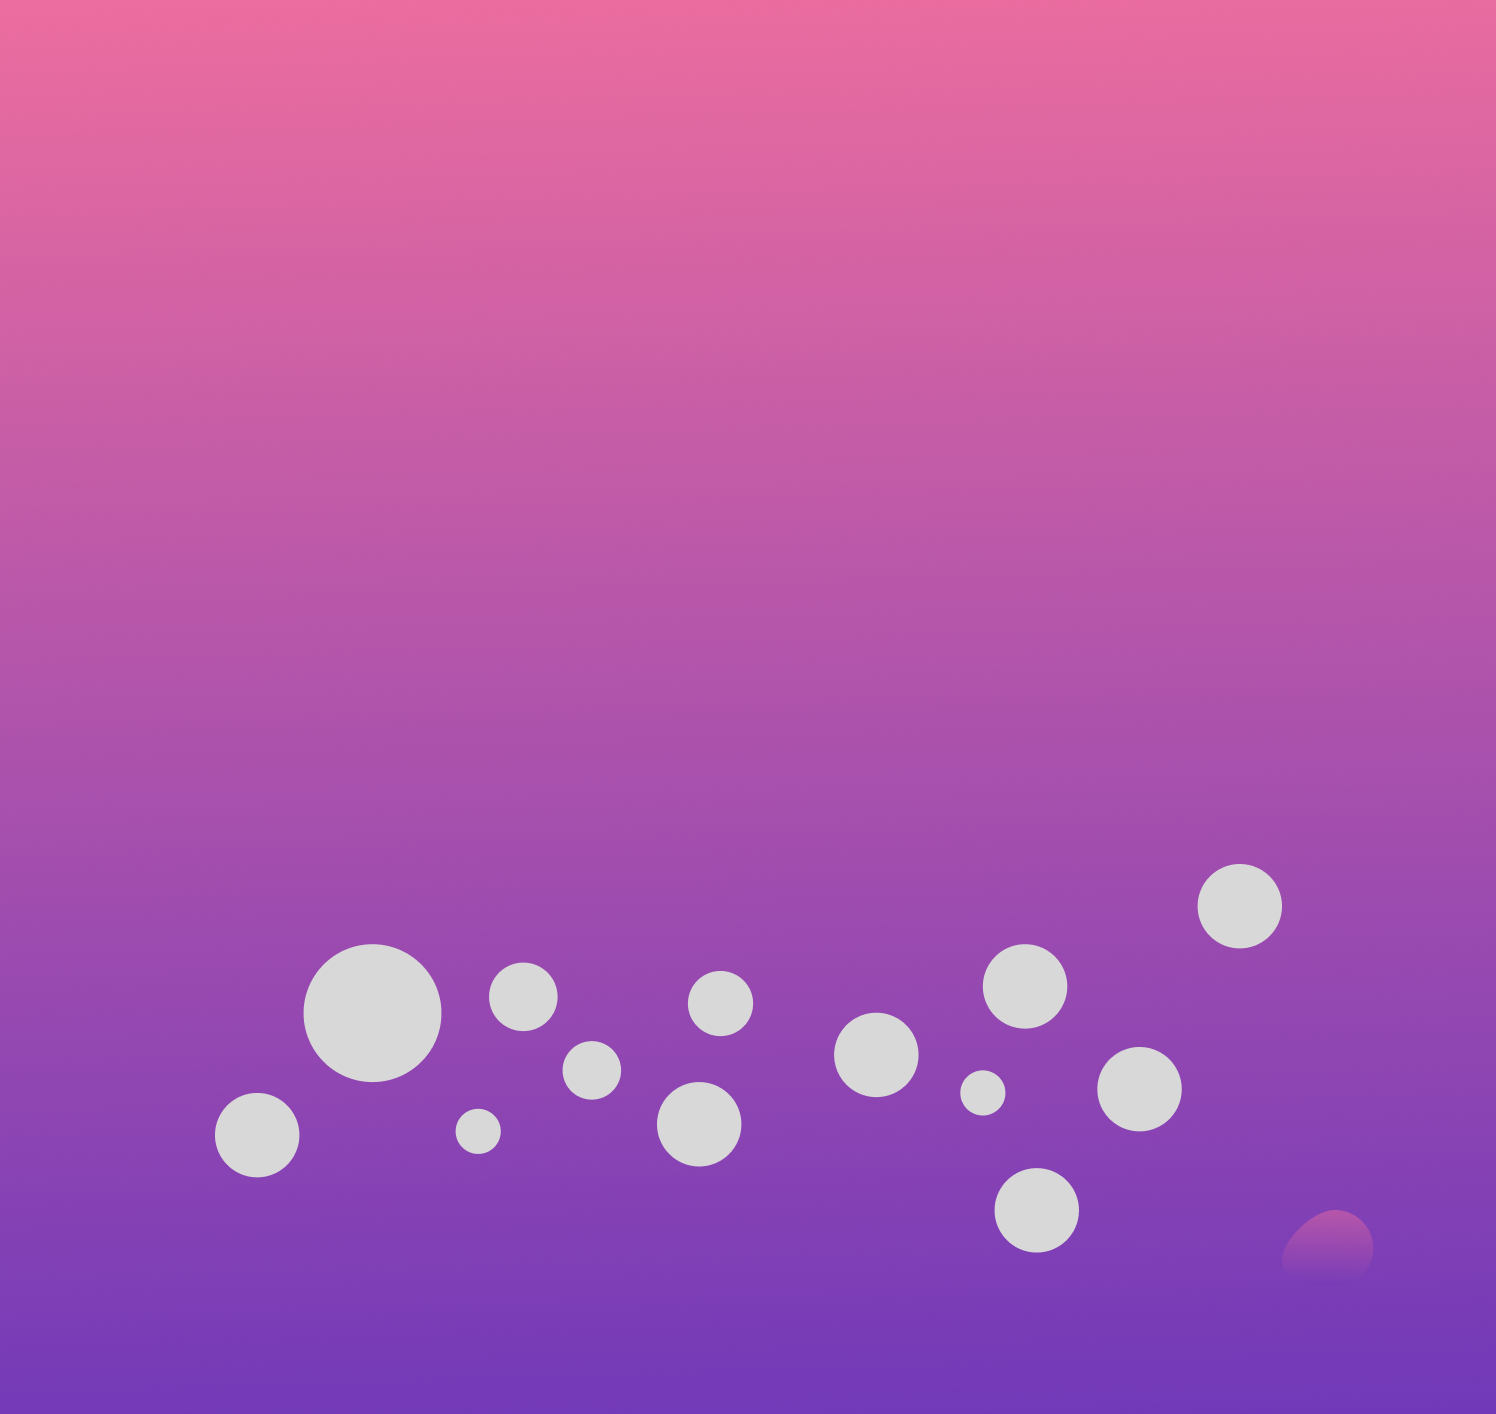
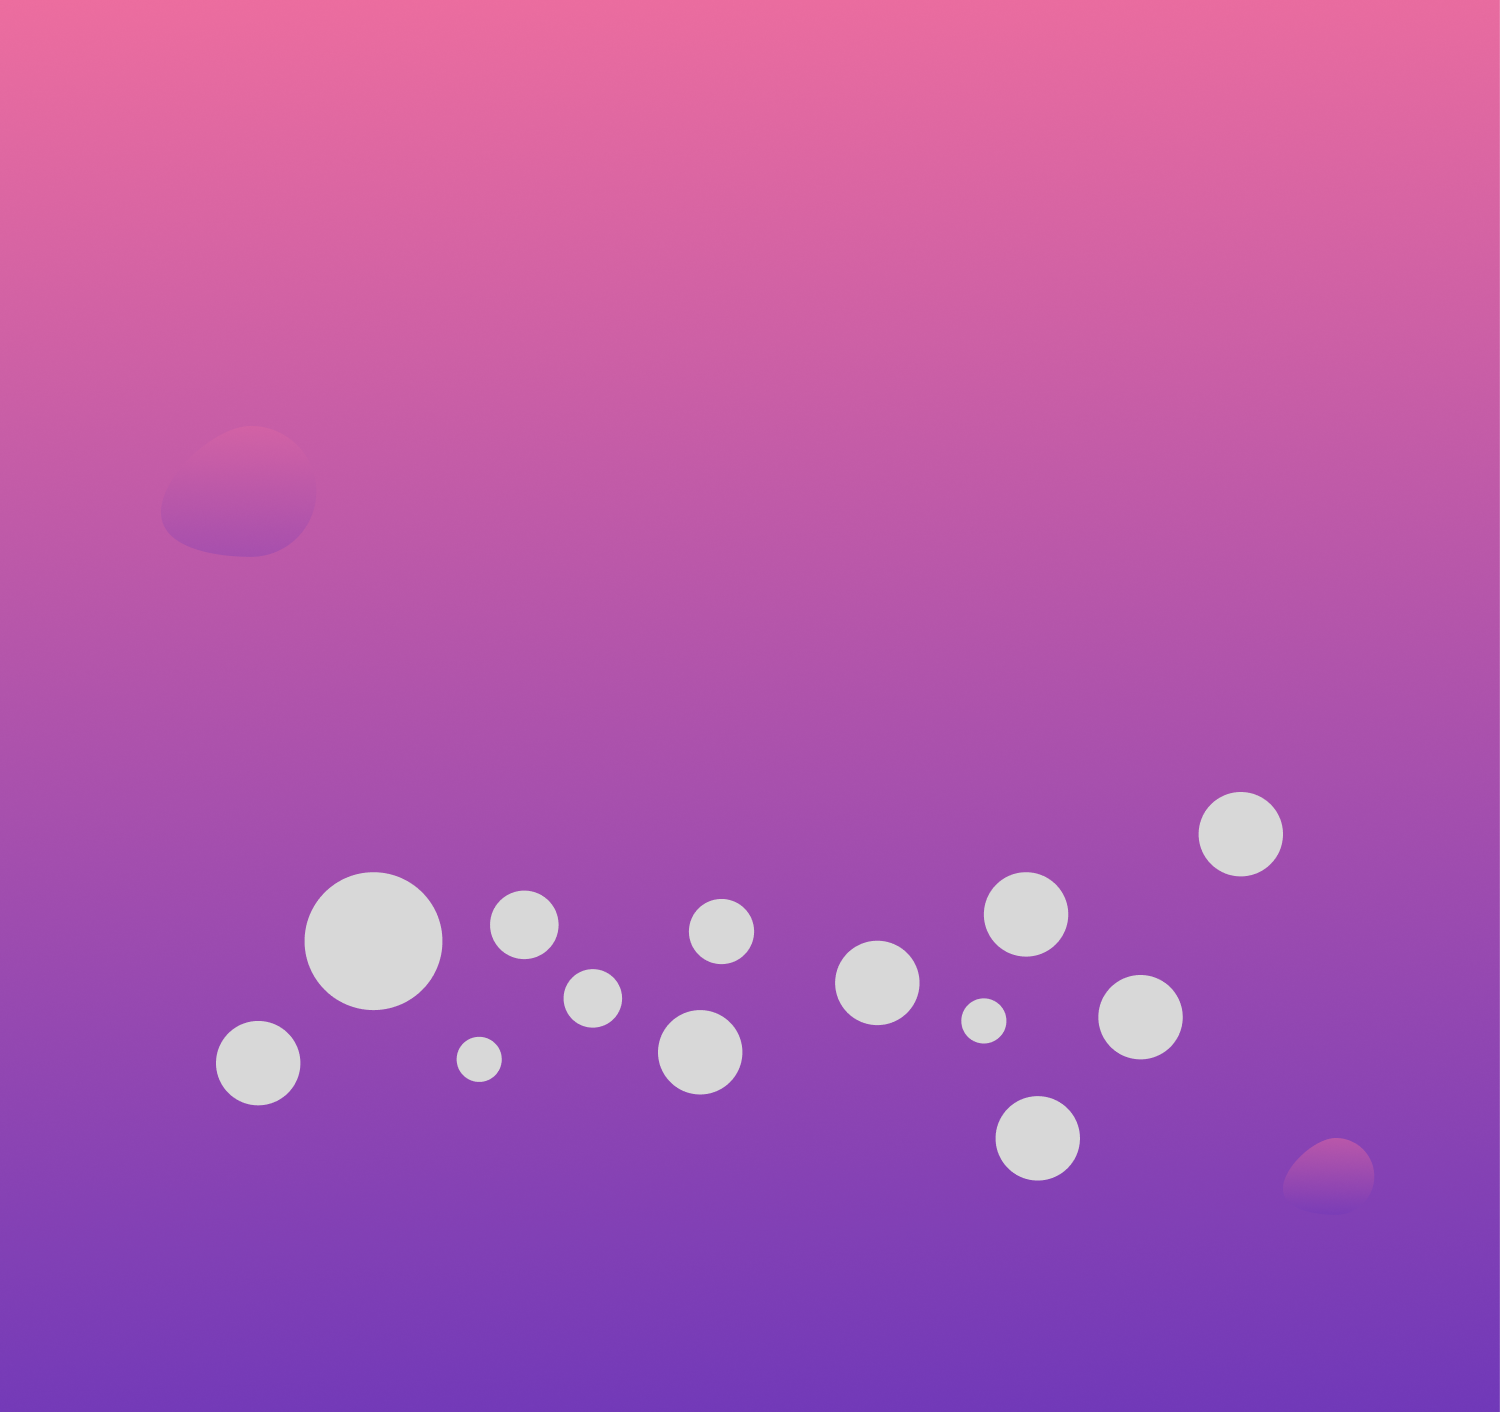
starting design new block CHAT

diff --git a/style.css b/style.css
@@ -147,16 +147,16 @@ body {
   box-shadow: 0px 0px 15px 19px rgba(253, 116, 155, 0.57);
 }
 .hero {
-  background: url('image/test-bg.png');
+  background: url("image/test-bg.png");
   background-size: cover;
   background-repeat: no-repeat;
   width: 100%;
   height: 100%;
 }
 .hero:after {
-  content: '';
+  content: "";
   display: block;
-  background: url('image/test-bg-after.png');
+  background: url("image/test-bg-after.png");
   background-repeat: no-repeat;
   background-size: 100%;
   height: 250px;
@@ -204,7 +204,6 @@ body {
 }
 .hero-pic {
   margin-top: 56px;
-
 }
 .hero-description {
   margin-right: 73px;
@@ -271,8 +270,8 @@ body {
   height: 100%;
 }
 .price:after {
-  content:'';
-  background: url('image/test-bg-after.png');
+  content: "";
+  background: url("image/test-bg-after.png");
   display: block;
   background-repeat: no-repeat;
   background-size: 100%;
@@ -280,8 +279,8 @@ body {
   margin-top: 50px;
 }
 .price:before {
-  content:'';
-  background: url('image/test-bg-after.png');
+  content: "";
+  background: url("image/test-bg-after.png");
   transform: rotate(180deg);
   display: block;
   background-repeat: no-repeat;
@@ -442,12 +441,16 @@ body {
   height: 100%;
   padding-top: 129px;
   padding-bottom: 142px;
+  position: relative;
+  z-index: 0;
 }
 .trade-section {
   text-align: center;
   background-color: #fff;
   box-shadow: 0px 50px 100px rgba(0, 0, 0, 0.25);
   border-radius: 30px;
+  position: relative;
+  z-index: 1;
 }
 .trade-title {
   font-style: normal;
@@ -494,16 +497,7 @@ body {
   line-height: 24px;
   text-align: center;
   background: #ffffff;
-  box-shadow: 0 0 6px 0 rgba(157, 96, 212, 0.5);
-  border: solid 1px transparent;
-  background-image: linear-gradient(
-      rgba(255, 255, 255, 0),
-      rgba(255, 255, 255, 0)
-    ),
-    linear-gradient(to bottom, #fd749b, #281ac8);
-  background-origin: border-box;
-  background-clip: content-box, border-box;
-  box-shadow: 2px 1000px 1px #fff inset;
+  position: relative;
   border-radius: 20px;
   cursor: pointer;
   margin-bottom: 85px;
@@ -527,6 +521,9 @@ body {
   margin-bottom: 50px;
   width: 55px;
   height: 55px;
+}
+.blog {
+  margin-bottom: 100px;
 }
 .blog-section {
   display: flex;
@@ -767,4 +764,84 @@ body {
   font-weight: normal;
   font-size: 12px;
   line-height: 18px;
+}
+.chat {
+  background: url("image/Testimonials.png");
+  background-size: cover;
+  background-repeat: no-repeat;
+  width: 100%;
+  height: 100%;
+}
+.chat::after {
+  content: "";
+  background: url("image/test-bg-after.png");
+  display: block;
+  background-repeat: no-repeat;
+  background-size: 100%;
+  height: 250px;
+  margin-top: 125px;
+}
+.chat:before {
+  content: "";
+  background: url("image/test-bg-after.png");
+  transform: rotate(180deg);
+  display: block;
+  background-repeat: no-repeat;
+  background-size: 100%;
+  height: 250px;
+  margin-bottom: 125px;
+}
+.chat-section {
+  display: flex;
+  justify-content: center;
+  flex-direction: column;
+  align-items: center;
+}
+.chat-title {
+  color: #ffffff;
+  font-style: normal;
+  font-weight: bold;
+  font-size: 28px;
+  line-height: 42px;
+  text-align: center;
+  max-width: 327px;
+  text-align: center;
+  padding-bottom: 28px;
+}
+.chat-title:after {
+  content: "";
+  display: block;
+  width: 50px;
+  height: 7px;
+  border-radius: 100px;
+  background: #fd749b;
+  margin: 28px auto 45px auto;
+}
+.chat-subtitle {
+  color: #ffffff;
+  text-align: center;
+  font-style: normal;
+  font-weight: normal;
+  font-size: 16px;
+  line-height: 40px;
+  max-width: 542px;
+}
+.chat-example {
+  margin-top: 245px;
+  width: 488px;
+  height: 116px;
+  background: #fff;
+  border-radius: 15px;
+  position: relative;
+}
+.chat-example:after {
+  content: '';
+  position: absolute;
+  top: 0;
+  left: -25px;
+  width: 0;
+	height: 0;
+	border-top: 45px solid transparent;
+	border-right: 45px solid #fff;
+	border-bottom: 45px solid transparent;
 }

diff --git a/index.html b/index.html
@@ -218,6 +218,16 @@
             </div>
           </div>
         </div>
+      </div>
+      <div class="chat">
+        <div class="container">
+          <div class="chat-section">
+            <p class="chat-title">10,000 Satisfied clients
+              around the world</p>
+            <p class="chat-subtitle">Yeah! we’re proud with numbers. We’ve helped thousands of clients all around the world with our bespoke service. Hover ontop of them pic to view their testimonials.</p>
+            <div class="chat-example"></div>
+          </div>
+        </div>
       </div> 
     </main>
   </body>
